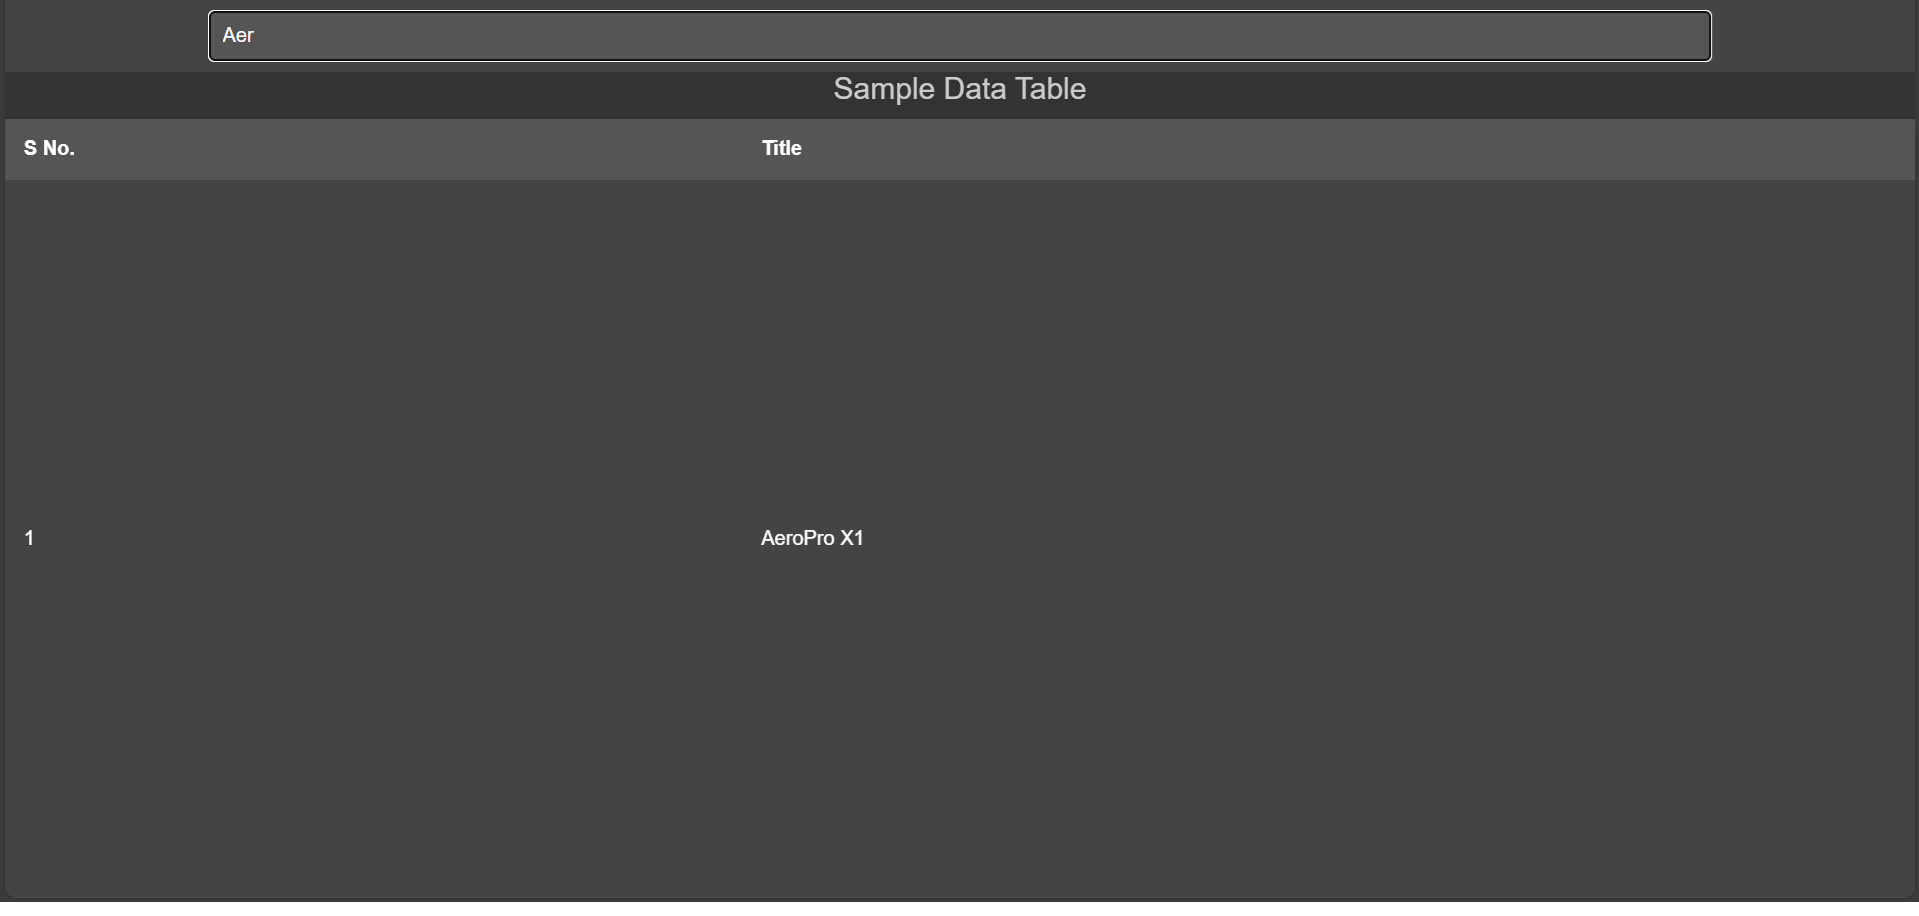
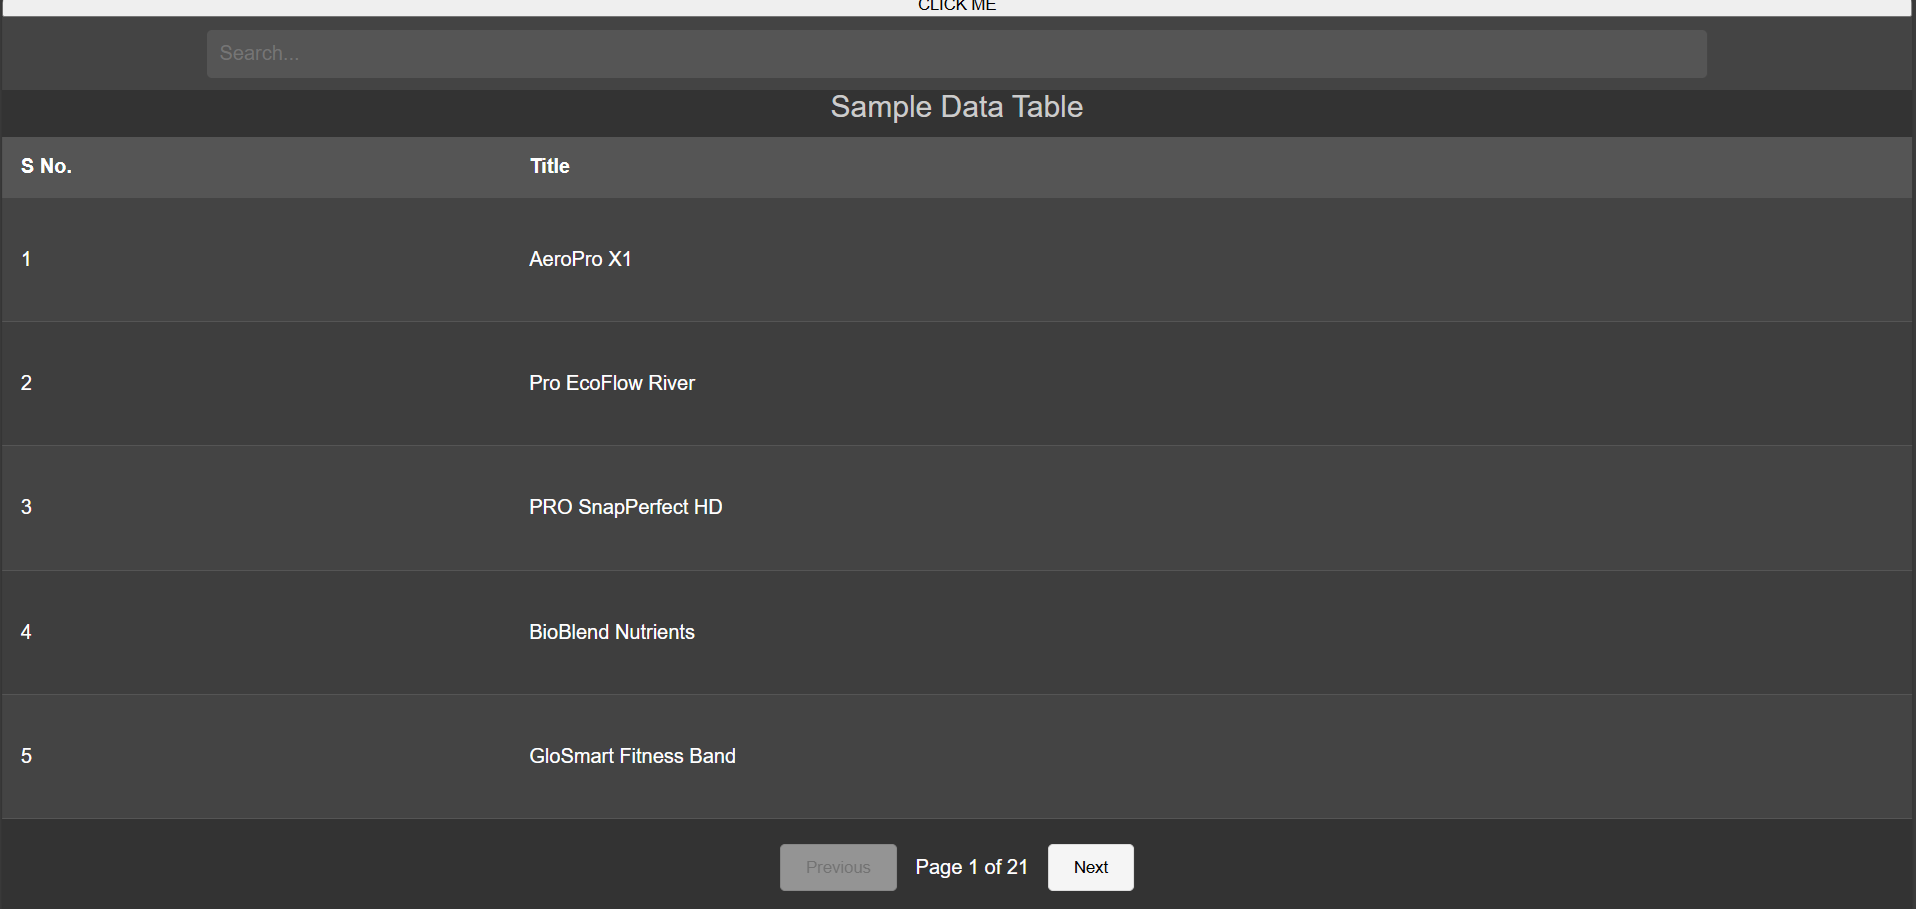
Images change

diff --git a/README.md b/README.md
@@ -2,11 +2,11 @@
 
  **Item Management Application** is a dynamic web application developed using React, Redux Toolkit, and React Router. This project harnesses the power of Redux Toolkit for robust state management and React Router for smooth navigation, providing a clean and interactive user experience. The application features a comprehensive item listing with pagination and search functionalities, along with detailed views for individual items. Designed to be intuitive and responsive, it ensures a seamless browsing and management experience for users.
 
-![homepage](https://github.com/RishiBakshii/mern-ecommerce/blob/main/frontend/src/assets/images/front.png?raw=true)
+![homepage](https://github.com/amit159357/The-Return-Journey/blob/amit/src/assets/images/home.png?raw=true)
 
 ![Search](https://github.com/RishiBakshii/mern-ecommerce/blob/main/frontend/src/assets/images/banner3.jpg?raw=true)
 
-![single item](https://github.com/RishiBakshii/mern-ecommerce/blob/main/frontend/src/assets/images/banner3.jpg?raw=true)
+![single item](https://github.com/amit159357/The-Return-Journey/blob/amit/src/assets/images/Single.png?raw=true)
 
 
 # **Features**
